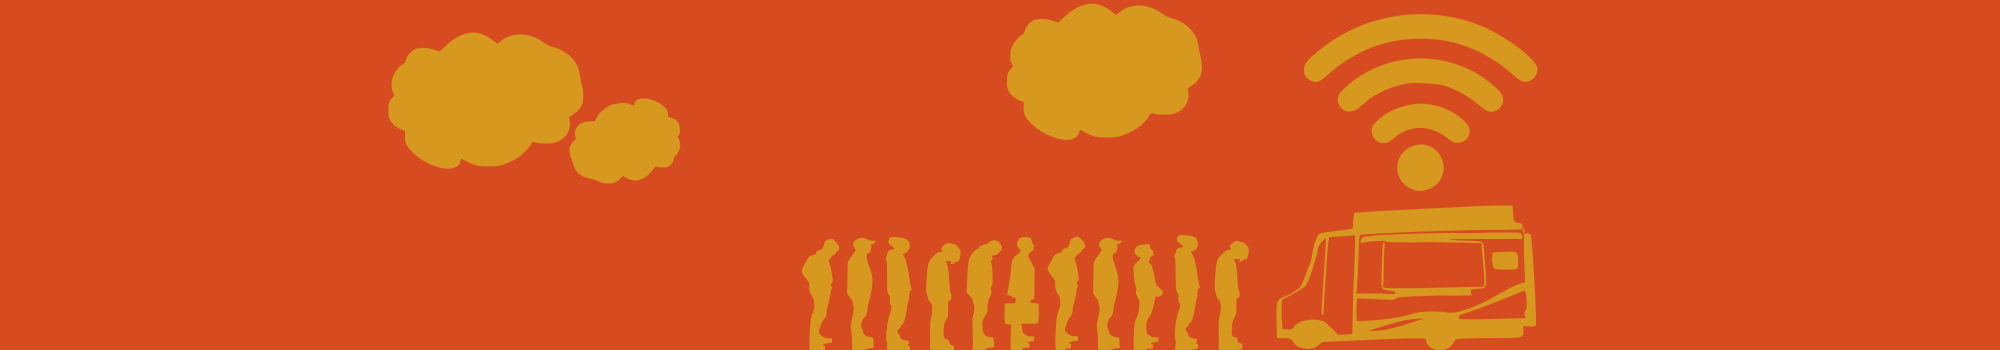
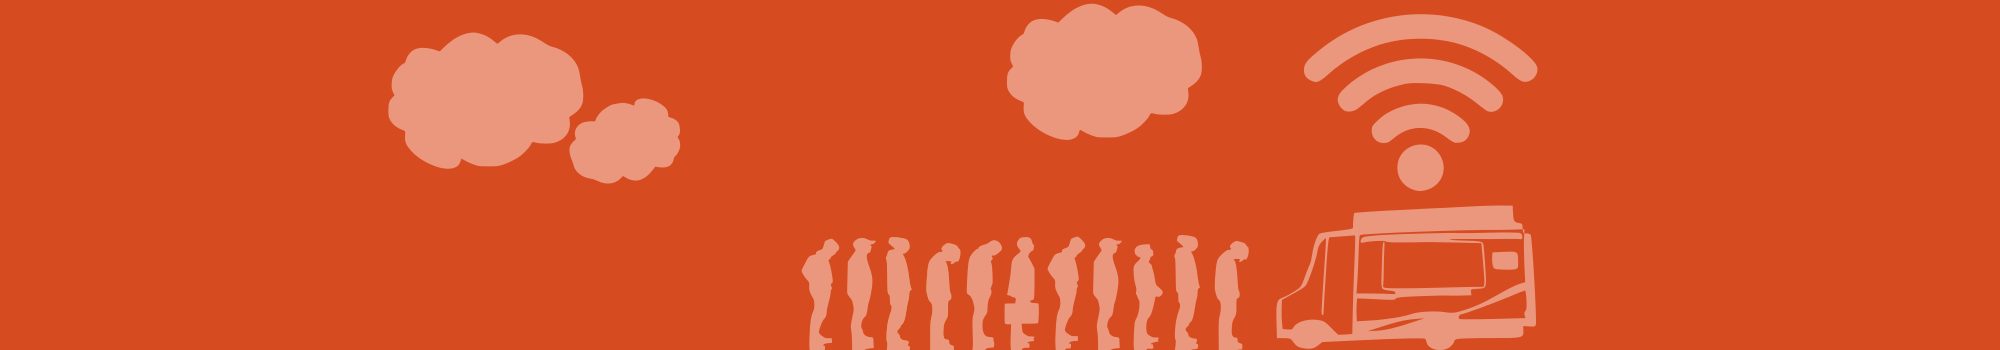
initial redesign done.

diff --git a/app/views/static/scaffold.html b/app/views/static/scaffold.html
@@ -6,145 +6,14 @@
 </head>
 <body>
 
-<style type="text/css">	
-
-body {  
-        padding: 0 0 40 0;
-        background-color: #22a8e0;
-      }
-
-
-.jumbotron {
-  position: relative;
-  padding: 10px 0;
-  color: #fff;
-  text-align: center;
-  text-shadow: 0 1px 3px rgba(0,0,0,.4), 0 0 30px rgba(0,0,0,.075);
-  background: #D74B20; /* Old browsers */
-  background: -moz-linear-gradient(45deg,  #D74B20 0%, #D7A020 100%); /* FF3.6+ */
-  background: -webkit-gradient(linear, left bottom, right top, color-stop(0%,#D74B20), color-stop(100%,#D7A020)); /* Chrome,Safari4+ */
-  background: -webkit-linear-gradient(45deg,  #D74B20 0%,#D7A020 100%); /* Chrome10+,Safari5.1+ */
-  background: -o-linear-gradient(45deg,  #D74B20 0%,#D7A020 100%); /* Opera 11.10+ */
-  background: -ms-linear-gradient(45deg,  #D74B20 0%,#D7A020 100%); /* IE10+ */
-  background: linear-gradient(45deg,  #D74B20 0%,#D7A020 100%); /* W3C */
-  filter: progid:DXImageTransform.Microsoft.gradient( startColorstr='#D74B20', endColorstr='#D7A020',GradientType=1 ); /* IE6-9 fallback on horizontal gradient */
-  -webkit-box-shadow: inset 0 3px 7px rgba(0,0,0,.2), inset 0 -3px 7px rgba(0,0,0,.2);
-     -moz-box-shadow: inset 0 3px 7px rgba(0,0,0,.2), inset 0 -3px 7px rgba(0,0,0,.2);
-          box-shadow: inset 0 3px 7px rgba(0,0,0,.2), inset 0 -3px 7px rgba(0,0,0,.2);
-}
-
-@font-face {
-    font-family:"Capture_it";
-    src: url("/assets/Capture_it.ttf") format("truetype");
-}
-
-.jumbotron h1 {
-  font-size: 80px;
-  font-weight: bold;
-  letter-spacing: -1px;
-  line-height: 1;
-}
-
-.jumbotron p {
-  font-size: 24px;
-  font-weight: 300;
-  line-height: 30px;
-  margin-bottom: 30px;
-}  
-
-h1
-{
-	font-size: 80px
-}
-
-#header_style
-{
-	font-size: 100px;	
-	color: white;
-}
-
-#banner
-{
-	z-index: 10;
-	position:relative;
-	padding: 0;
-	font-size: 12px;
-	color:#333;
-
-}
-
-#banner h2
-{
-	font-family: "Capture_it";
-}
-
-.headerTruck
-{
-	background-image: url("/assets/headerspecial2.png");
-	background-repeat: repeat-x;
-	background-position: center top;
-	width: 100%;
-	height:50%;
-/*	height: 526px;*/
-	margin: 0 0 0 0;
-	text-align: center;
-	display: block;
-	padding: 80 0 0 0;
-}
-
-
-.headerTruck h1
-{
-	font-size: 100px;
-	font-family: "Capture_it";
-	padding-bottom: 20px;
-}
-
-
-
-</style>
-
-<body>
-
-<div class="navbar navbar-inverse navbar-fixed-top">
-    <div class="navbar-inner">
-        <div class="container">
-          <a class="btn btn-navbar" data-toggle="collapse" data-target=".nav-collapse">
-            <span class="icon-bar"></span>
-            <span class="icon-bar"></span>
-            <span class="icon-bar"></span>
-          </a>
-          <a class="brand" href="#">Spork</a>
-          	<div class="nav-collapse collapse">
-            <ul class="nav">
-              <li class="active"><a href="#">Home</a></li>
-              <li><a href="#about">Our Story</a></li>
-              <li><a href="#contact">Contact</a></li>
-              <li><a href="#contact">Help</a></li>
-            </ul>
-            <form class="navbar-form pull-right">
-              <input class="span2" type="text" placeholder="Email">
-              <input class="span2" type="password" placeholder="Password">
-              <button type="submit" class="btn">Sign in</button>
-            </form>
-        </div>
-    </div>
-</div>
-    </div>
-
-
-
   
 <div class="headerTruck">
     
        	<h1>SporkTrucks</h1>
        	<br>
-        
         <p><a class="btn btn-inverse btn-large">Find a Food Truck &raquo;</a>
 </div>    
  
-<div class="container">
-
     <div id="banner">
       	<div class="row">
         	<div class="span6">
@@ -163,14 +32,6 @@ h1
        		</div>
     	</div>
 	</div>
-
-      <hr>
-
-      <footer>
-        <p>&copy; SporkTrucks 2012</p>
-      </footer>
-
-</div>
 
 
 

diff --git a/app/assets/stylesheets/application.css b/app/assets/stylesheets/application.css
@@ -13,20 +13,9 @@
  */
 
 
-.outerBox{
-	z-index:0;
-	background-color: #22a8e0; overflow-x: hidden;
-	position:relative;
-	width:100%;
-	height:100%;
-	/*border:solid 1px red;*/
-}
-
+/*
 .body
 {
-	/*background-color: #22a8e0;
-	background-image: url("horiz-bars.png");
-	background-repeat: repeat-x;*/
 	z-index:1;
 	background-color: #d74b20;
 	position:absolute;
@@ -34,33 +23,13 @@
 	height:30%;
 	min-height: 220px;
 	max-height: 350px;
-	/*border:solid 1px green;*/
 }
+*/
 
 @font-face {
     font-family: "ElliotSix";
     src: url("ElliotSix.ttf") format("truetype");
 }
-
-.headerBox{
-	z-index: 2;
-	position:absolute;
-	height:500px;
-	width:800px;
-	left:400px;
-	right:300px;
-	top:50px;
-	/*border:solid 1px blue;*/
-}
-
-.truck{
-	z-index: 2;
-	position:absolute;
-	height:300px;
-	width:500px;
-	left:930px;
-	top:93px;
-} 
 
 .map
 {
@@ -71,30 +40,6 @@
 	left:200px;
 	top:310px;
 	padding:19px;
-}
-
-.intro
-{
-	z-index:2;
-	position:absolute;
-	color:white;
-    font-size:30px;
-    font-family:ElliotSix;
-    top:95px;
-    left: 40px;
-    padding:10px;
-    -webkit-transform: rotate(-15deg);
-}
-
-.zipcode
-{
-	z-index:3;
-	position:absolute;
-	left:850px;
-	top:310px;
-	font-family:ElliotSix;
-	font-size:30px;
-	padding:20px;
 }
 
 .apple 
@@ -212,7 +157,7 @@ img.button:hover {
 a:link
 {
 	color: #484646;
-	text-decoration: underline;
+	text-decoration: none;
 }
 a:visited:
 {
@@ -232,4 +177,69 @@ a:visited:
 #Selected
 {
 	color:white;
+}
+
+
+
+/******************** POST RE-DESIGN **************************************************/
+
+body 
+{  
+	padding: 0 0 40 0;
+	background-color: #22a8e0;      
+}
+
+
+@font-face {
+    font-family:"Capture_it";
+    src: url("/assets/Capture_it.ttf") format("truetype");
+}
+
+
+#banner
+{
+	z-index: 10;
+	position:relative;
+	padding: 0;
+	font-size: 12px;
+	color:#333;
+
+}
+
+#banner h2
+{
+	font-family: "Capture_it";
+}
+
+.headerTruck
+{
+	background-image: url("/assets/headerspecial2.png");
+	background-repeat: repeat-x;
+	background-position: center top;
+	width: 100%;
+	height:50%;
+/*	height: 526px;*/
+	margin: 0 0 0 0;
+	text-align: center;
+	display: block;
+	padding: 80 0 0 0;
+}
+
+
+.headerTruck h1
+{
+	font-size: 100px;
+	font-family: "Capture_it";
+	padding-bottom: 20px;
+}
+
+#headerBox
+{
+	z-index: 2;
+	position: relative;
+	width: 100%;
+	height:100%;
+	/*border: solid 1px blue;*/
+	left:300px;
+	right:200px;
 }
